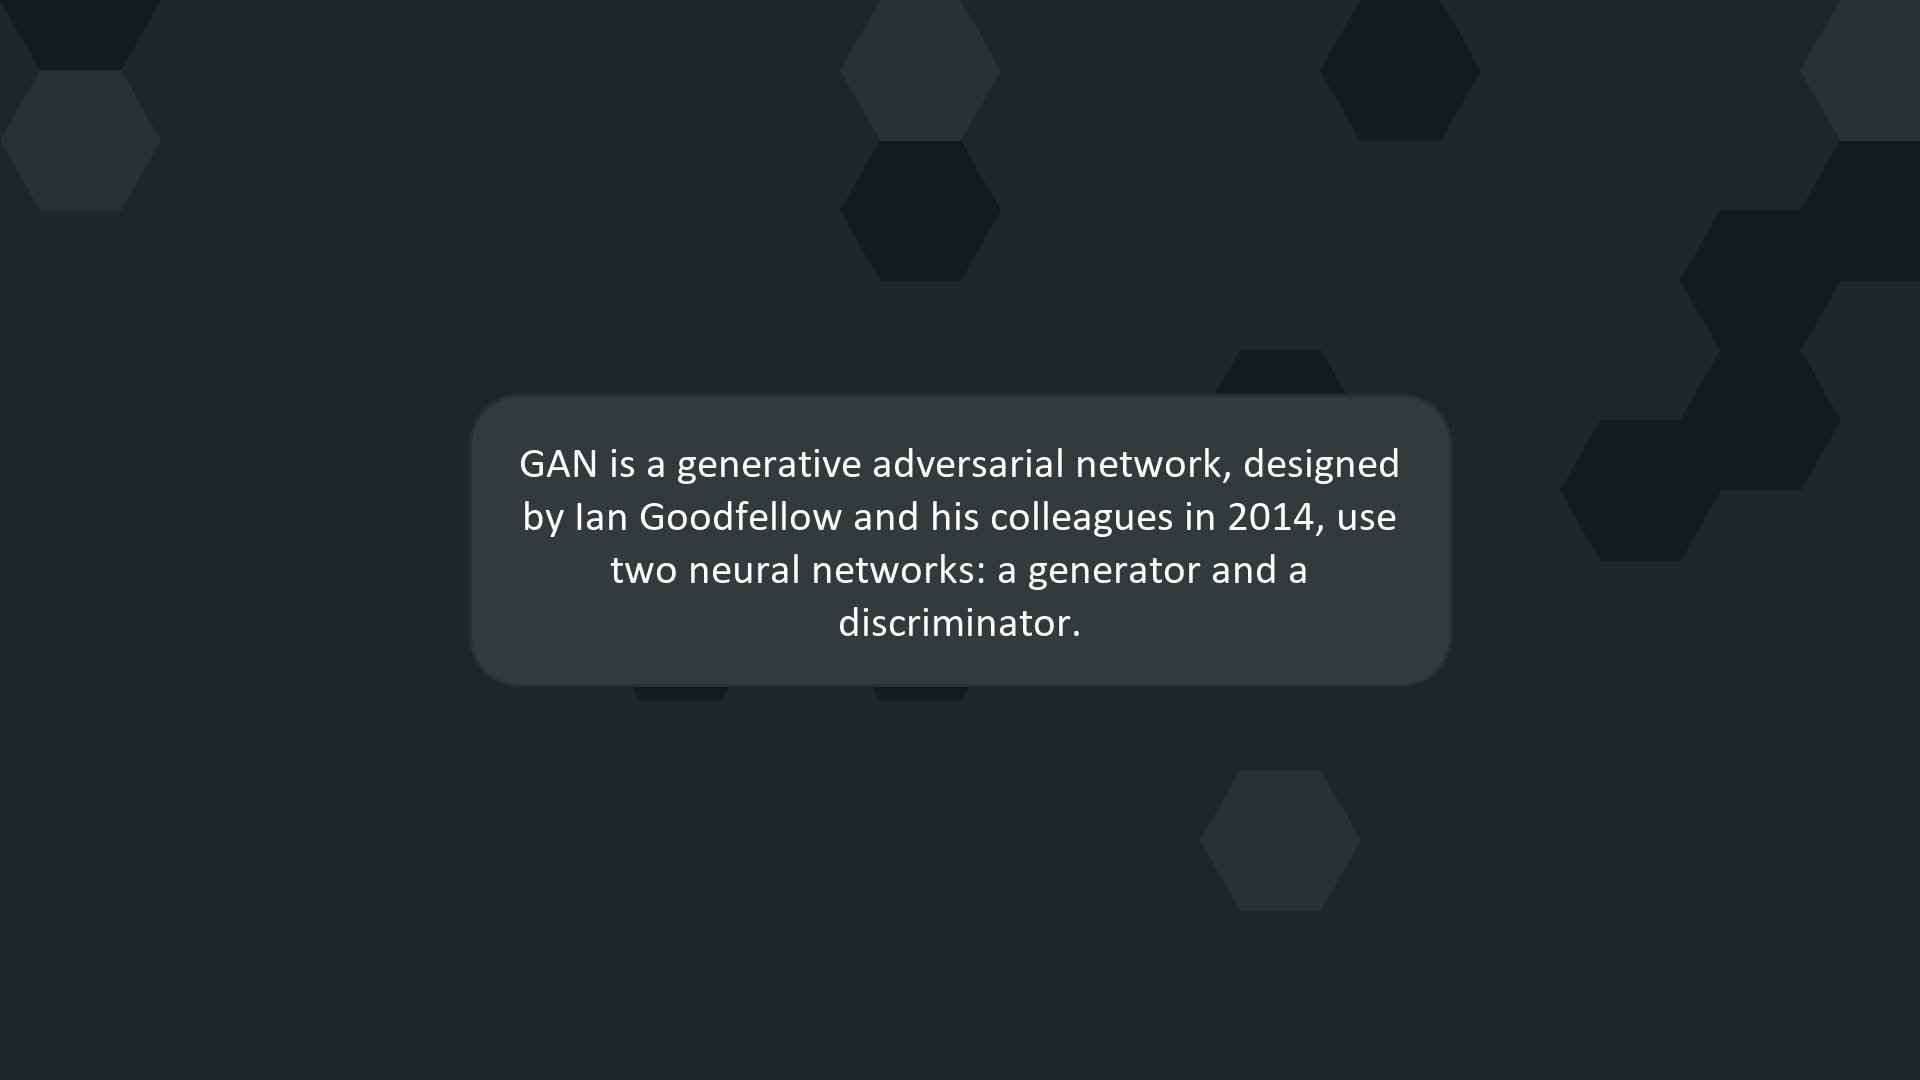
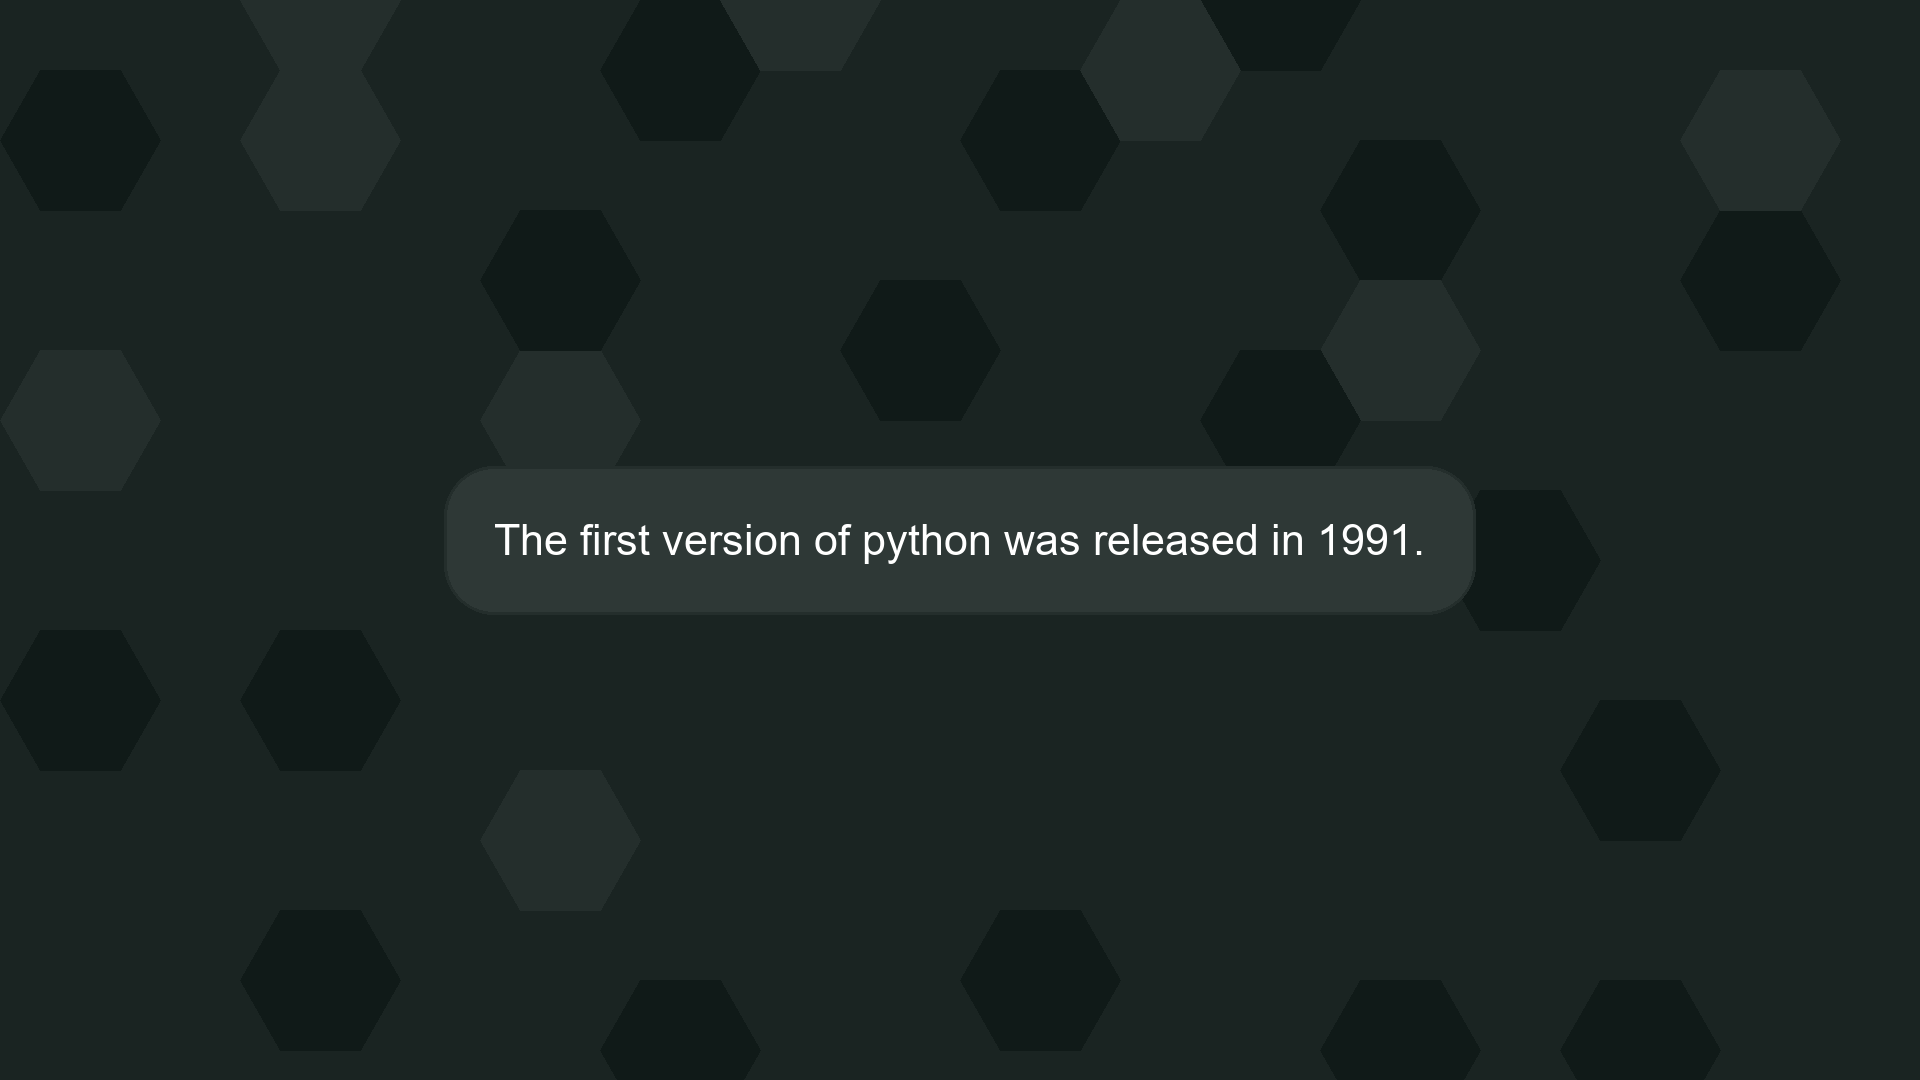
polygon color now rounds to 0 if negative
polygon frequency and card font

Changed region(s): [[0.2188, 0.3667, 0.7812, 0.6417], [0.0, 0.0611, 0.0938, 0.2139]]

diff --git a/desktop-flashcards.py b/desktop-flashcards.py
@@ -10,7 +10,7 @@ for i in range(3):
     desk_rgb.append(randint(0, 50))
     card_rgb.append(desk_rgb[i] + 20)
     outline_rgb.append(desk_rgb[i] + 10)
-    gon_rgb.append(desk_rgb[i] - 10) # round to zero
+    gon_rgb.append(max(0,desk_rgb[i] - 10))
 
 for i in (desk_rgb, card_rgb, outline_rgb, gon_rgb):
     colors.append('#%02x%02x%02x' % tuple(i))
@@ -36,9 +36,9 @@ while x <= desk_x:
 
 desk_im = Image.new('RGB', (desk_x, desk_y), colors[0])
 desk_draw = ImageDraw.Draw(desk_im)
-card_font = ImageFont.truetype('calibri.ttf', int(desk_y / 25))
+card_font = ImageFont.truetype('arial.ttf', int(desk_y / 25))
 
-for i in range(randint(10, 30)):
+for i in range(randint(20, 50)):
     gon = randint(0, len(xy_map))
     x = xy_map[gon][0]
     y = xy_map[gon][1]
